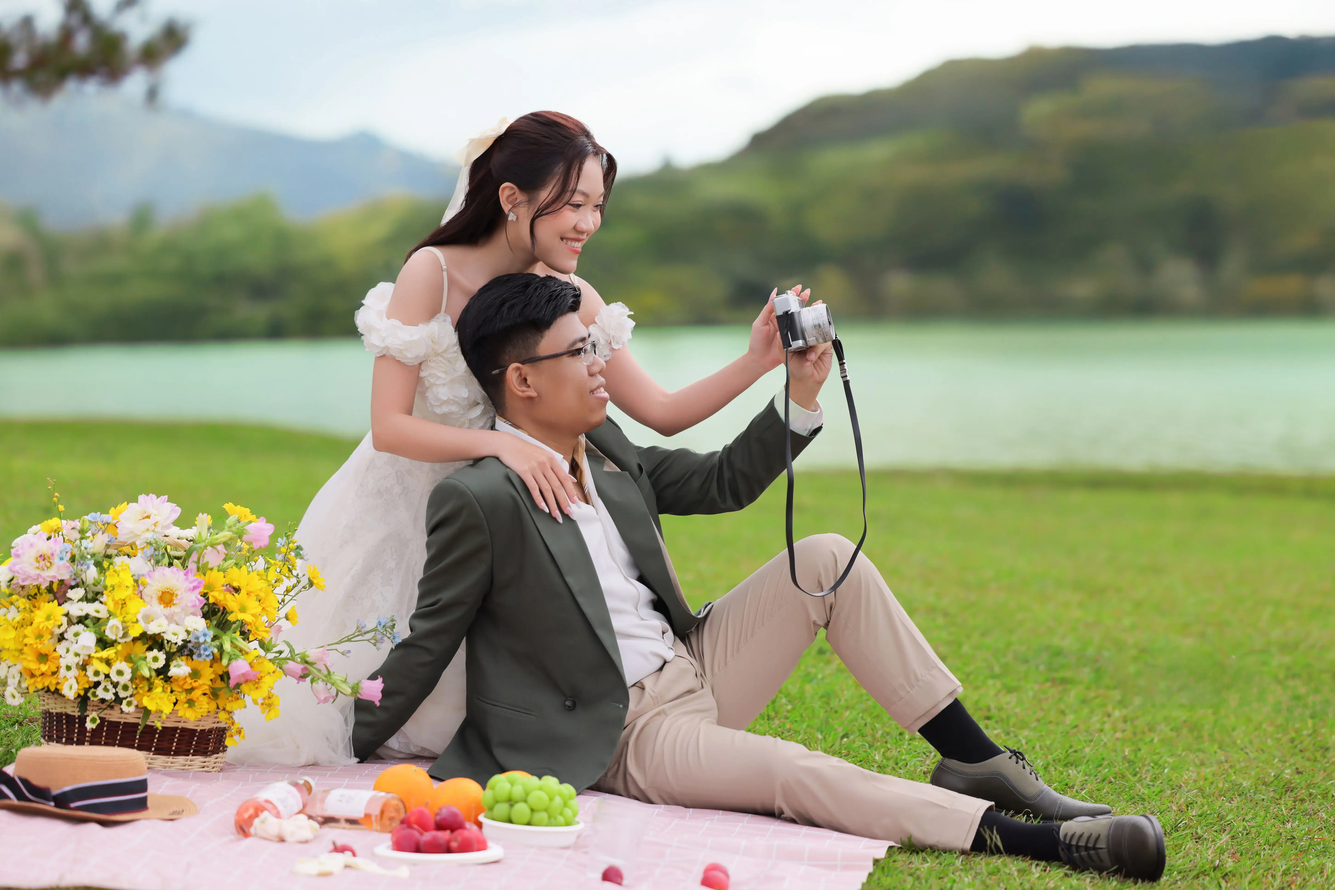
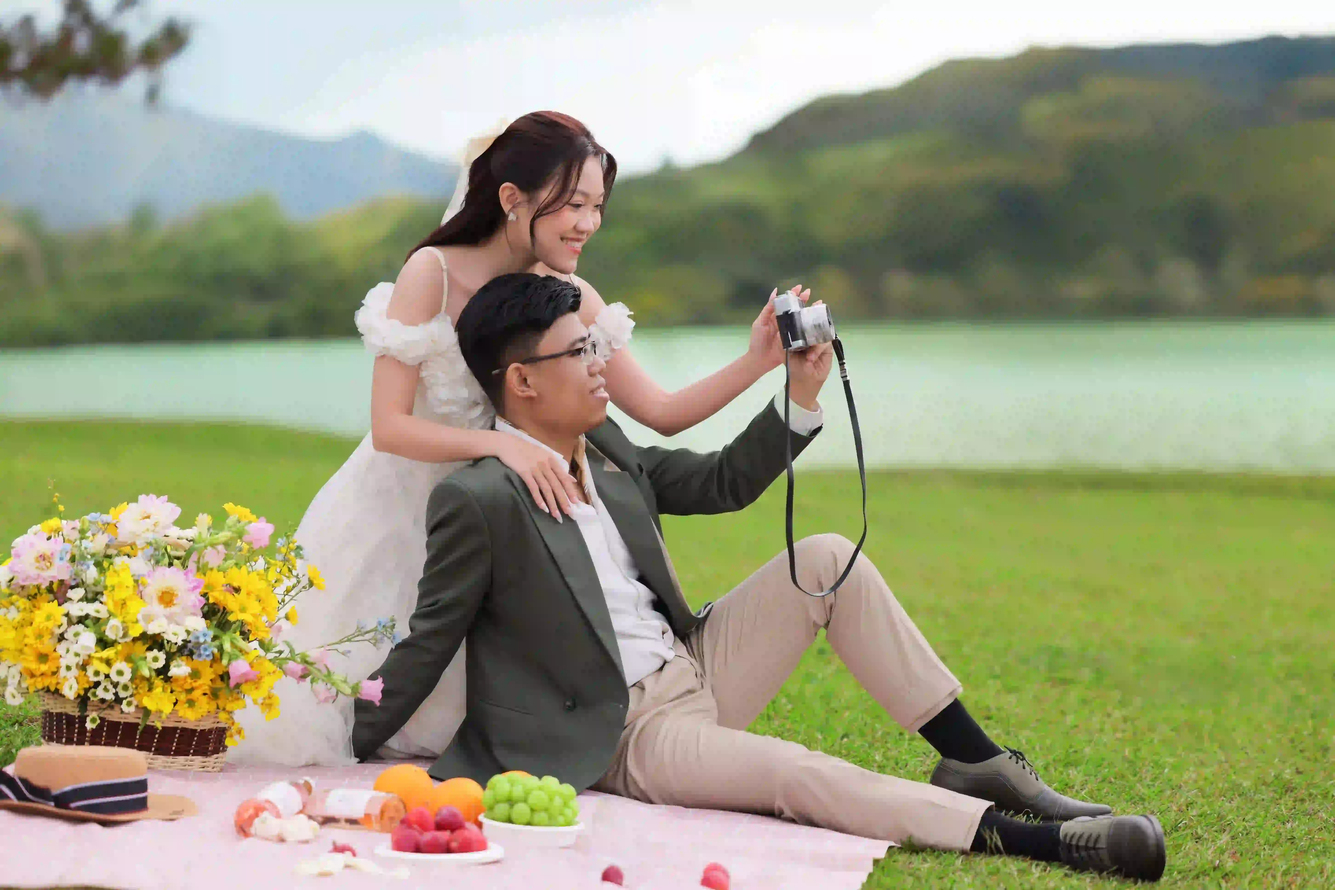
update image

diff --git a/lib/widgets/thank_you_section.dart b/lib/widgets/thank_you_section.dart
@@ -24,7 +24,7 @@ class ThankYouSection extends StatelessWidget {
                 alignment: Alignment.center,
                 children: [
                   OptimizedImage(
-                    imagePath: 'assets/images/THO_3990.webp',
+                    imagePath: 'assets/images/hinh_8.webp',
                     width: 160,
                     height: 160,
                     fit: BoxFit.cover,
